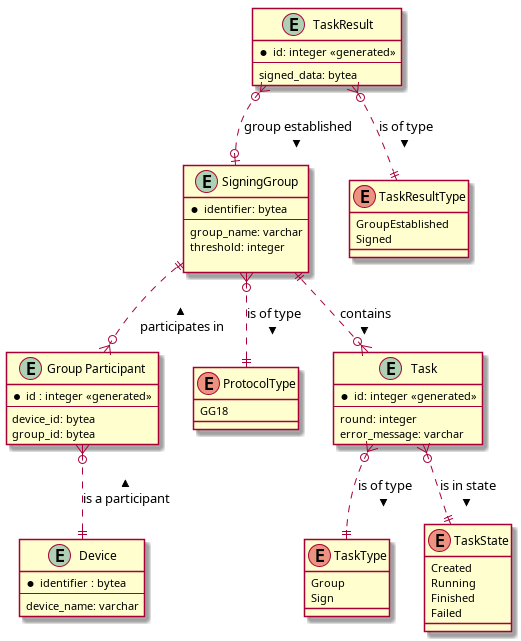
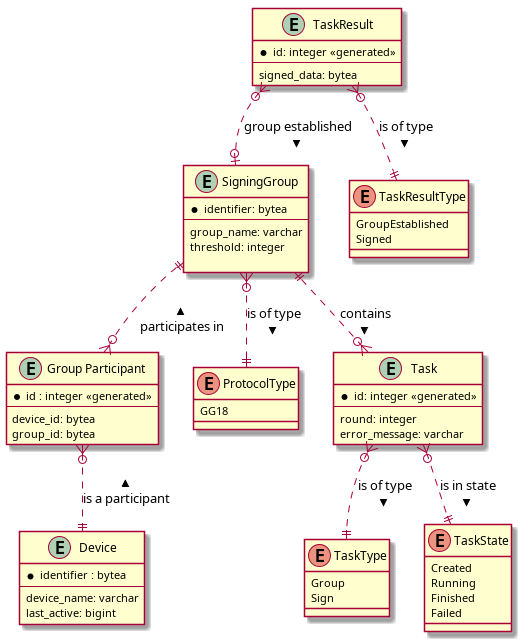
device working

Changed region(s): [[0.0307, 0.8112, 0.3071, 0.9984]]

diff --git a/src/meesign_repository/mod.rs b/src/meesign_repository/mod.rs
@@ -1,16 +1,17 @@
-extern crate dotenv;
-
+use self::models::NewDevice;
+use crate::device::Device;
 use crate::meesign_repository::models::Group;
-use self::models::{Device, NewDevice};
+use anyhow::bail;
+use chrono::Utc;
 use diesel::pg::PgConnection;
 use diesel::prelude::*;
 use diesel::r2d2::{ConnectionManager, Pool, PoolError};
 use std::env;
 use std::sync::Arc;
 
+pub mod enums;
 pub mod models;
 pub mod schema;
-pub mod enums;
 
 pub type PgPool = Pool<ConnectionManager<PgConnection>>;
 
@@ -29,8 +30,14 @@ pub trait MeesignRepo {
     //async fn add_todo(&self, description: String) -> anyhow::Result<i64>;
     //async fn complete_todo(&self, id: i64) -> anyhow::Result<bool>;
     //async fn list_todos(&self) -> anyhow::Result<()>;
-    fn create_device<'a>(&self, identifier: &'a Vec<u8>, device_name: &'a str) -> Device;
+    fn add_device<'a>(
+        &self,
+        identifier: &'a Vec<u8>,
+        device_name: &'a str,
+    ) -> anyhow::Result<Device>;
+    fn activate_device<'a>(&self, identifier: &'a Vec<u8>) -> anyhow::Result<()>;
     fn get_device(&self, identifier: &Vec<u8>) -> Option<Device>;
+    fn get_devices(&self) -> anyhow::Result<Vec<Device>>;
 
     fn get_group(&self, group_identifier: &Vec<u8>) -> Option<Group>;
 }
@@ -50,19 +57,43 @@ impl PostgresMeesignRepo {
         let pool = init_pool()?;
         Ok(PostgresMeesignRepo::new(pool))
     }
-    /// TODO: fn get_connection {}
-    pub fn create_device<'a>(&self, identifier: &'a Vec<u8>, device_name: &'a str) -> Device {
+
+    pub fn add_device<'a>(&self, identifier: &'a Vec<u8>, name: &'a str) -> anyhow::Result<Device> {
+        const MAX_NAME_LEN: usize = 64;
+        if name.chars().count() > MAX_NAME_LEN
+            || name
+                .chars()
+                .any(|x| x.is_ascii_punctuation() || x.is_control())
+        {
+            bail!("Invalid Device name {}", &name[..MAX_NAME_LEN]);
+        }
         use schema::device;
 
         let new_device = NewDevice {
             identifier,
-            device_name,
+            device_name: name,
         };
 
-        diesel::insert_into(device::table)
+        let device: Device = diesel::insert_into(device::table)
             .values(&new_device)
-            .get_result(&self.pg_pool.get().unwrap())
-            .expect("Error saving new device")
+            .get_result(&self.pg_pool.get().unwrap())?;
+        Ok(device)
+    }
+
+    fn activate_device<'a>(&self, target_identifier: &'a Vec<u8>) -> anyhow::Result<()> {
+        use schema::device::dsl::*;
+
+        let _ = diesel::update(device.filter(identifier.eq(target_identifier)))
+            .set(last_active.eq(Utc::now().naive_utc()))
+            .get_result(&self.pg_pool.get().unwrap())?;
+        Ok(())
+    }
+    pub fn get_devices(&self) -> anyhow::Result<Vec<Device>> {
+        use schema::device::dsl::*;
+
+        let devices = device.load::<Device>(&self.pg_pool.get().unwrap())?;
+
+        Ok(devices)
     }
 
     pub fn get_device(&self, device_identifier: &Vec<u8>) -> Option<Device> {
@@ -73,16 +104,11 @@ impl PostgresMeesignRepo {
             .load::<Device>(&self.pg_pool.get().unwrap())
             .expect("Error loading posts");
 
-        println!("{}", result[0].device_name);
-
-        println!("{:?}", result[0].identifier);
-
         Some(result[0].clone())
     }
 
     pub fn get_group(&self, group_identifier: &Vec<u8>) -> Option<Group> {
         use schema::signinggroup::dsl::*;
-
 
         let result = signinggroup
             .find(group_identifier)

diff --git a/src/rpc.rs b/src/rpc.rs
@@ -6,7 +6,7 @@ use tokio::sync::Mutex;
 use crate::task::{TaskStatus, TaskType, Task};
 use uuid::Uuid;
 use crate::protocols::ProtocolType;
-use log::{debug, info};
+use log::{debug, info, warn};
 use crate::proto as msg;
 
 pub struct MPCService {
@@ -27,12 +27,14 @@ impl Mpc for MPCService {
         let name = request.name;
         info!("RegistrationRequest device_id={} name={:?}", hex::encode(&identifier), name);
 
-        let mut state = self.state.lock().await;
+        let state = self.state.lock().await;
 
-        if state.add_device(&identifier, &name) {
-            Ok(Response::new(msg::Resp { message: "OK".into() }))
-        } else {
-            Err(Status::failed_precondition("Request failed"))
+        match state.meesign_repo.add_device(&identifier, &name) {
+            Ok(_) => Ok(Response::new(msg::Resp { message: "OK".into() })),
+            Err(e) => {
+                warn!("{}", e);
+                Err(Status::failed_precondition("Request failed"))
+            }
         }
     }
 
@@ -148,10 +150,18 @@ impl Mpc for MPCService {
     async fn get_devices(&self, _request: Request<msg::DevicesRequest>) -> Result<Response<msg::Devices>, Status> {
         debug!("DevicesRequest");
 
-        let resp = msg::Devices {
-            devices: self.state.lock().await.get_devices().values().map(|device| msg::Device::from(device)).collect()
-        };
-        Ok(Response::new(resp))
+        match self.state.lock().await.meesign_repo.get_devices() {
+            Ok(devices) => {
+                let response = msg::Devices {
+                    devices: devices.iter().map(|device| msg::Device::from(device)).collect()
+                };
+                Ok(Response::new(response))
+            }
+            Err(err) => {
+                warn!("{}", err);
+                Err(Status::failed_precondition("Request failed"))
+            }
+        }
     }
 
     async fn log(&self, request: Request<msg::LogRequest>) -> Result<Response<msg::Resp>, Status> {

diff --git a/src/state.rs b/src/state.rs
@@ -1,5 +1,6 @@
 use std::collections::HashMap;
 
+use crate::meesign_repository::PostgresMeesignRepo;
 use crate::task::{Task, TaskStatus, TaskResult};
 use crate::group::Group;
 use crate::device::Device;
@@ -9,34 +10,18 @@ use crate::protocols::gg18::{GG18Group, GG18Sign};
 use log::{warn, error};
 
 pub struct State {
-    devices: HashMap<Vec<u8>, Device>,
     groups: HashMap<Vec<u8>, Group>,
     tasks: HashMap<Uuid, Box<dyn Task + Send + Sync>>,
+    pub meesign_repo: PostgresMeesignRepo
 }
 
 impl State {
     pub fn new() -> Self {
         State {
-            devices: HashMap::new(),
             groups: HashMap::new(),
             tasks: HashMap::new(),
+            meesign_repo: PostgresMeesignRepo::init().expect("Coudln't initialize Posgtres MeeSign repo.")
         }
-    }
-
-    pub fn add_device(&mut self, identifier: &[u8], name: &str) -> bool {
-        if name.chars().count() > 64 || name.chars().any(|x| x.is_ascii_punctuation() || x.is_control()) {
-            warn!("Invalid Device name {}", name);
-            return false
-        }
-
-        let device = Device::new(identifier.to_vec(), name.to_owned());
-        // TODO improve when feature map_try_insert gets stabilized
-        if self.devices.contains_key(identifier) {
-            warn!("Device identifier already registered {}", hex::encode(identifier));
-            return false
-        }
-        self.devices.insert(identifier.to_vec(), device);
-        true
     }
 
     pub fn add_group_task(&mut self, name: &str, devices: &[Vec<u8>], threshold: u32, protocol: ProtocolType) -> Option<Uuid> {
@@ -129,8 +114,8 @@ impl State {
         Ok(())
     }
 
-    pub fn get_devices(&self) -> &HashMap<Vec<u8>, Device> {
-        &self.devices
+    pub fn get_devices(&self) -> anyhow::Result<Vec<Device>> {
+        self.meesign_repo.get_devices()
     }
 
     pub fn device_activated(&mut self, device_id: &[u8]) {

diff --git a/src/device.rs b/src/device.rs
@@ -1,21 +1,13 @@
-use std::time::{SystemTime, UNIX_EPOCH};
-
-#[derive(Clone, Eq)]
+use chrono::{NaiveDateTime, Utc};
+#[derive(Queryable, Clone, Eq, Debug)]
 pub struct Device {
     identifier: Vec<u8>,
     name: String,
-    last_active: u64,
+    last_active: NaiveDateTime,
     // protocol: ProtocolType
 }
 
 impl Device {
-    pub fn new(identifier: Vec<u8>, name: String) -> Self {
-        Device {
-            identifier,
-            name,
-            last_active: SystemTime::now().duration_since(UNIX_EPOCH).unwrap().as_secs()
-        }
-    }
 
     pub fn identifier(&self) -> &[u8] {
         &self.identifier
@@ -26,11 +18,11 @@ impl Device {
     }
 
     pub fn last_active(&self) -> u64 {
-        self.last_active
+        self.last_active.timestamp() as u64
     }
 
-    pub fn activated(&mut self) -> u64 {
-        self.last_active = SystemTime::now().duration_since(UNIX_EPOCH).unwrap().as_secs();
+    pub fn activated(&mut self) -> NaiveDateTime {
+        self.last_active = Utc::now().naive_utc();
         self.last_active
     }
 }

diff --git a/src/main.rs b/src/main.rs
@@ -8,7 +8,6 @@ mod meesign_repository;
 
 #[macro_use]
 extern crate diesel;
-extern crate dotenv;
 
 mod proto {
     tonic::include_proto!("meesign");
@@ -16,6 +15,7 @@ mod proto {
 
 use crate::state::State;
 use clap::{Parser, Subcommand};
+use dotenv::dotenv;
 use crate::proto::mpc_client::MpcClient;
 use std::time::SystemTime;
 
@@ -196,6 +196,7 @@ async fn request_sign(server: String, name: String, group_id: Vec<u8>, data: Vec
 #[tokio::main]
 async fn main() -> Result<(), String> {
     env_logger::init();
+    dotenv().ok();
     let args = Args::parse();
     if let Some(command) = args.command {
         let server = format!("http://{}:{}", &args.addr, args.port);

diff --git a/src/meesign_repository/enums.rs b/src/meesign_repository/enums.rs
@@ -1,27 +1,30 @@
 use diesel_derive_enum::DbEnum;
 
-
-
 #[derive(Copy, Clone, PartialEq, Eq, Debug, DbEnum)]
 #[DieselType = "Protocoltype"]
 pub enum ProtocolType {
-    GG18
+    GG18,
 }
 
 #[derive(Debug, DbEnum)]
 #[DieselType = "TaskType"]
 pub enum Tasktype {
-    Group, Sign
+    Group,
+    Sign,
 }
 
 #[derive(Debug, DbEnum)]
 #[DieselType = "Taskresulttype"]
 pub enum TaskResultType {
-    GroupEstablished, Signed
+    GroupEstablished,
+    Signed,
 }
 
 #[derive(Debug, DbEnum)]
 #[DieselType = "Taskstate"]
 pub enum TaskState {
-    Created, Running, Finished, Failed
+    Created,
+    Running,
+    Finished,
+    Failed,
 }

diff --git a/src/meesign_repository/models.rs b/src/meesign_repository/models.rs
@@ -1,13 +1,5 @@
-
-use crate::meesign_repository::enums::ProtocolType;
 use super::schema::*;
-
-
-#[derive(Queryable, Clone, PartialEq, Eq, Debug)]
-pub struct Device {
-    pub identifier: Vec<u8>,
-    pub device_name: String,
-}
+use crate::meesign_repository::enums::ProtocolType;
 
 #[derive(Insertable)]
 #[table_name = "device"]
@@ -16,8 +8,6 @@ pub struct NewDevice<'a> {
     pub device_name: &'a str,
 }
 
-
-
 #[derive(Queryable, Clone, Eq, PartialEq)]
 pub struct Group {
     pub identifier: Vec<u8>,
@@ -25,4 +15,3 @@ pub struct Group {
     pub threshold: i32,
     pub protocol: ProtocolType,
 }
-

diff --git a/src/meesign_repository/schema.rs b/src/meesign_repository/schema.rs
@@ -5,6 +5,7 @@ table! {
     device (identifier) {
         identifier -> Bytea,
         device_name -> Varchar,
+        last_active -> Timestamp,
     }
 }
 
@@ -62,10 +63,4 @@ joinable!(groupparticipant -> signinggroup (group_id));
 joinable!(task -> signinggroup (group_id));
 joinable!(taskresult -> signinggroup (signing_group));
 
-allow_tables_to_appear_in_same_query!(
-    device,
-    groupparticipant,
-    signinggroup,
-    task,
-    taskresult,
-);
+allow_tables_to_appear_in_same_query!(device, groupparticipant, signinggroup, task, taskresult,);
